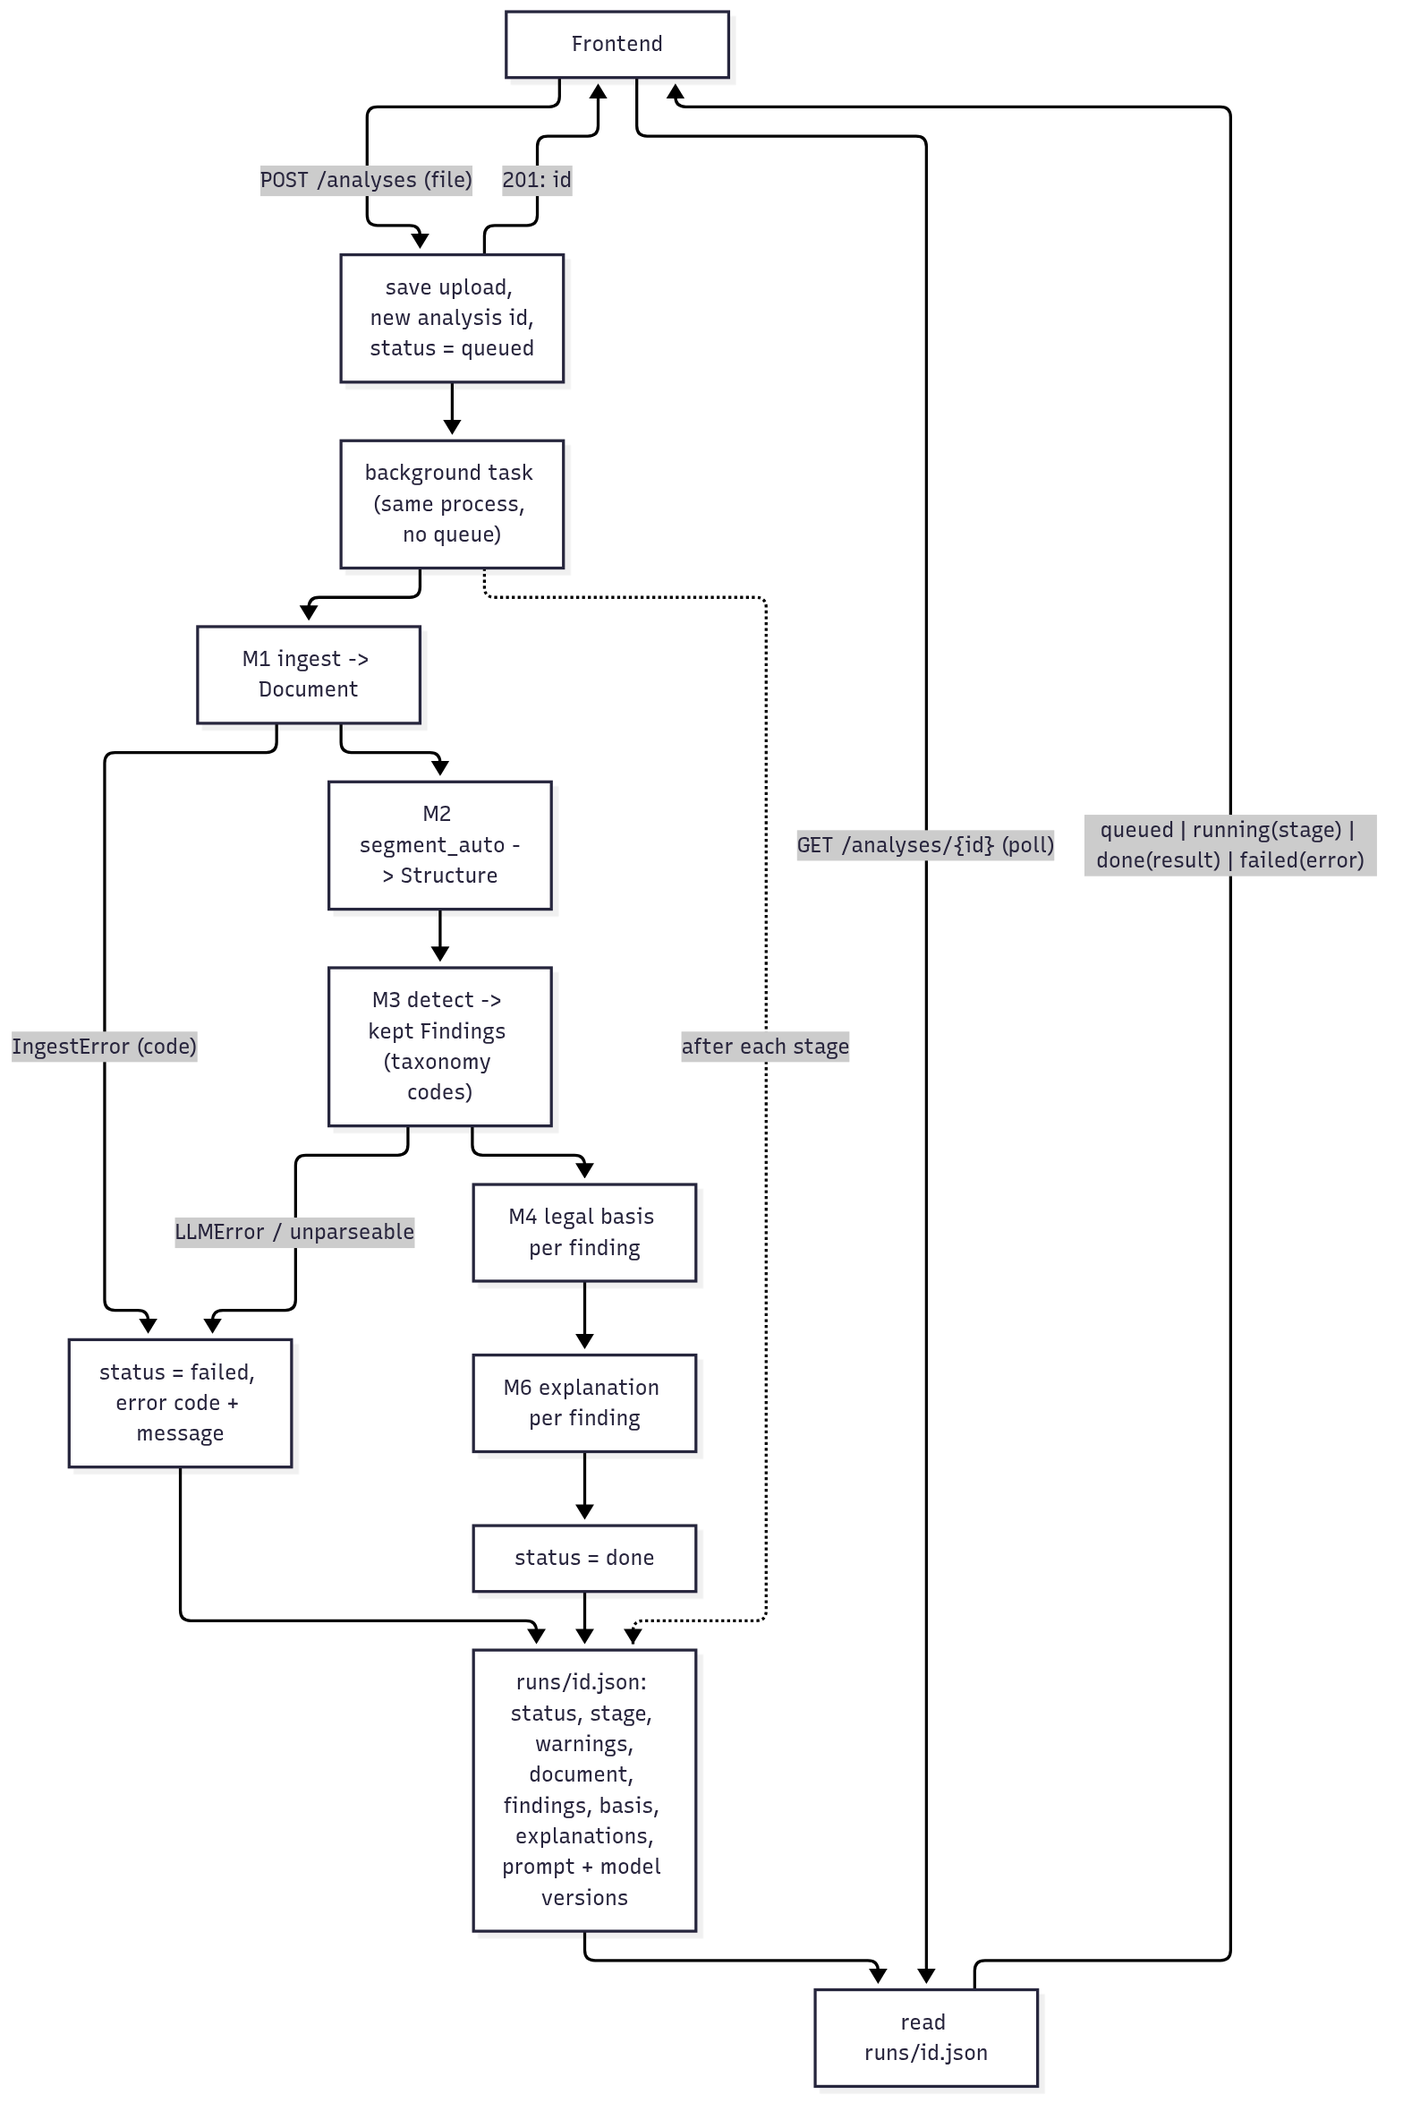
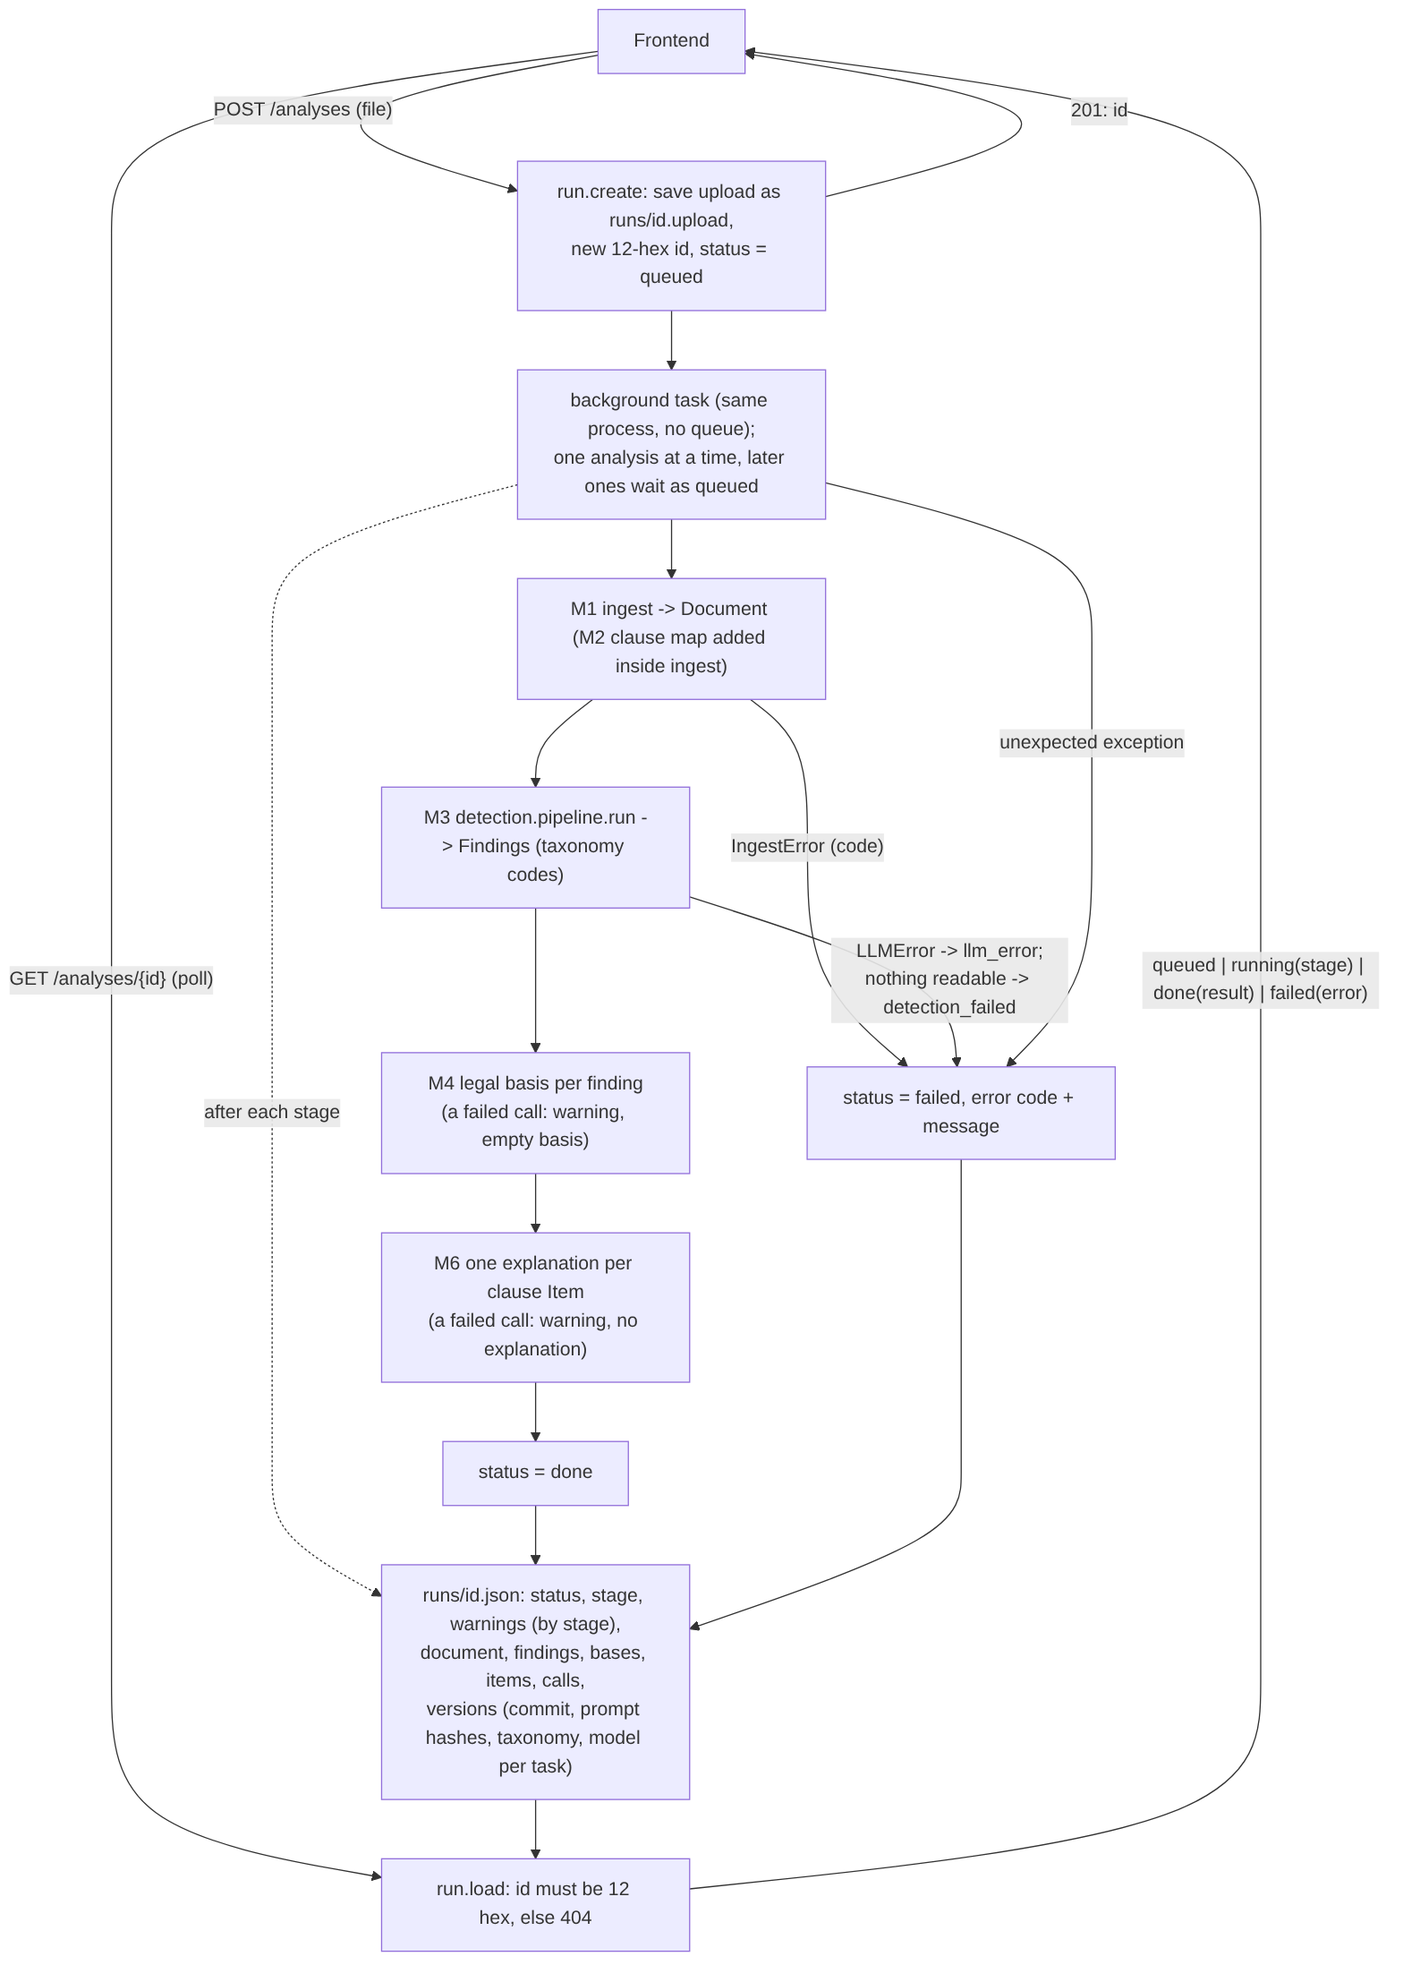
feat: analyses API and orchestration, M1 -> M6 in the background with a run record per stage
POST /analyses saves the upload and returns an id; the analysis runs in a
background task, one at a time, and rewrites runs/<id>.json after every
stage (status, stage, warnings, document, findings, bases, items, every model
call, and the commit, prompt hashes, taxonomy and model per task).
GET /analyses/{id} returns it. Ingest errors and unreadable detection fail
the run with a code; a failed legal_pick or explain call is a warning.
Adds python-multipart (uploads) and httpx (TestClient) to requirements.

diff --git a/backend/application/analysis/run.py b/backend/application/analysis/run.py
@@ -1,0 +1,175 @@
+"""One analysis of one contract: M1 ingest -> M3 detect -> M4 legal basis -> M6 explain, recorded in runs/<id>.json.
+
+    rid = create(data, filename)    # saves the upload, status "queued"
+    analyze(rid)                    # runs every stage (the API does this in the background)
+    load(rid)                       # the record
+
+The record is rewritten after every stage, so a poller sees progress and a failed run keeps what it had:
+  {"id", "created", "status": queued | running | done | failed, "stage", "error": {code, message} | null,
+   "warnings": [{stage, message}], "document", "findings", "bases", "items", "calls": {stage: [...]}, "versions"}
+A run fails when the file cannot be read (IngestError, with its code) or detection gets nothing readable from the
+model; a failed legal-basis or explanation call is a warning on that item. Runs go one at a time: the local model
+serves one request at a time and embedded Qdrant allows one user per process, so later ones wait as "queued".
+
+RUNS_DIR (env) moves the records; default backend/runs (git-ignored).
+"""
+from __future__ import annotations
+
+import dataclasses
+import datetime
+import hashlib
+import json
+import logging
+import os
+import re
+import subprocess
+import threading
+import time
+import traceback
+import uuid
+from pathlib import Path
+
+from application.adapters import llm
+from application.modules.detection import pipeline as detection, whole_doc
+from application.modules.explain import explain as m6
+from application.modules.ingestion.ingest import IngestError, ingest
+from application.modules.legal_basis import basis as m4
+from application.modules.taxonomy import taxonomy
+
+log = logging.getLogger(__name__)
+BACKEND = Path(__file__).resolve().parents[2]
+RUNS_DIR = Path(os.environ.get("RUNS_DIR") or BACKEND / "runs")
+TASKS = ("structure_fallback", "detect", "legal_pick", "explain")
+PROMPTS = {"detect": whole_doc.PROMPT, "detect_fix": whole_doc.FIX, "legal_pick": m4.PROMPT, "explain": m6.PROMPT}
+_ID = re.compile(r"[0-9a-f]{12}")
+_one_at_a_time = threading.Lock()
+
+
+class UnknownRun(KeyError):
+    pass
+
+
+def _path(rid: str) -> Path:
+    if not _ID.fullmatch(rid or ""):          # ids come from URLs: never let one name another file
+        raise UnknownRun(rid)
+    return RUNS_DIR / f"{rid}.json"
+
+
+def _save(rec: dict) -> None:
+    p = _path(rec["id"])
+    tmp = p.with_suffix(".tmp")
+    tmp.write_text(json.dumps(rec, ensure_ascii=False, indent=1, default=str), encoding="utf-8")
+    tmp.replace(p)                            # a poller never reads a half-written file
+
+
+def load(rid: str) -> dict:
+    p = _path(rid)
+    if not p.exists():
+        raise UnknownRun(rid)
+    return json.loads(p.read_text(encoding="utf-8"))
+
+
+def create(data: bytes, filename: str) -> str:
+    RUNS_DIR.mkdir(parents=True, exist_ok=True)
+    rid = uuid.uuid4().hex[:12]
+    (RUNS_DIR / f"{rid}.upload").write_bytes(data)
+    _save({"id": rid, "created": datetime.datetime.now().isoformat(timespec="seconds"), "filename": filename,
+           "status": "queued", "stage": None, "error": None, "warnings": [], "document": None, "findings": [],
+           "bases": [], "items": [], "calls": {}, "versions": versions()})
+    log.info("run %s: queued %s (%d bytes)", rid, filename, len(data))
+    return rid
+
+
+def versions() -> dict:
+    """What produced a result, to compare runs later: code, prompts, taxonomy, and the model behind each task."""
+    def git(*args):
+        try:
+            r = subprocess.run(["git", *args], cwd=BACKEND, capture_output=True, text=True, timeout=5)
+            return r.stdout.strip() if r.returncode == 0 else None
+        except OSError:
+            return None
+    models = {}
+    for t in TASKS:
+        try:
+            name, prof = llm.profile_for(t)
+            models[t] = {"profile": name, "model": prof.get("model"), "base_url": prof.get("base_url")}
+        except llm.LLMError as e:
+            models[t] = {"error": str(e)}
+    tax = taxonomy.DEFAULT_JSON
+    return {"commit": git("rev-parse", "--short", "HEAD"), "dirty": bool(git("status", "--porcelain", "--", ".")),
+            "prompts": {k: hashlib.sha256(v.encode()).hexdigest()[:12] for k, v in PROMPTS.items()},
+            "taxonomy": hashlib.sha256(tax.read_bytes()).hexdigest()[:12] if tax.exists() else None,
+            "models": models}
+
+
+def _document(doc) -> dict:
+    d = dataclasses.asdict(doc)
+    d.pop("raw", None)                        # per-page OCR provenance: large, and only for debugging ingest
+    d.pop("blocks", None)
+    return d
+
+
+def analyze(rid: str) -> dict:
+    """Run every stage of a queued run; never raises (a failure is recorded in the run)."""
+    rec = load(rid)
+    with _one_at_a_time:
+        t0 = time.monotonic()
+        rec["status"] = "running"
+
+        def stage(name):
+            rec["stage"] = name
+            _save(rec)
+            log.info("run %s: %s", rid, name)
+
+        def warn(stage_name, messages):
+            rec["warnings"] += [{"stage": stage_name, "message": m} for m in messages]
+
+        def fail(code, message):
+            rec.update(status="failed", error={"code": code, "message": message})
+            _save(rec)
+            log.warning("run %s failed at %s: %s %s", rid, rec["stage"], code, message)
+            return rec
+
+        try:
+            stage("ingest")
+            upload = RUNS_DIR / f"{rid}.upload"
+            try:
+                doc = ingest(upload.read_bytes(), rec["filename"])
+            except IngestError as e:
+                return fail(e.reason, e.message)
+            rec["document"] = _document(doc)
+            warn("ingest", doc.warnings)
+
+            stage("detect")
+            try:
+                det = detection.run(doc)
+            except llm.LLMError as e:
+                return fail("llm_error", str(e))
+            rec["calls"]["detect"] = det["attempts"]
+            warn("detect", det["warnings"])
+            if det["error"]:
+                return fail("detection_failed", det["error"])
+            rec["findings"] = [dataclasses.asdict(f) for f in det["findings"]]
+
+            stage("legal_basis")
+            bases = m4.attach(det["findings"])
+            rec["bases"] = [{**{k: v for k, v in b.items() if k != "attempt"},
+                             "basis": [dataclasses.asdict(x) for x in b["basis"]]} for b in bases["items"]]
+            rec["calls"]["legal_pick"] = [b["attempt"] for b in bases["items"] if b["attempt"]]
+            warn("legal_basis", bases["warnings"] + [w for b in bases["items"] for w in b["warnings"]])
+
+            stage("explain")
+            ex = m6.explain(doc, det["findings"], bases["items"])
+            rec["items"] = [{**dataclasses.asdict(it), "basis": [{**dataclasses.asdict(b), "label": b.label}
+                                                                 for b in it.basis]} for it in ex["items"]]
+            rec["calls"]["explain"] = ex["attempts"]
+            warn("explain", ex["warnings"] + [w for it in ex["items"] for w in it.warnings])
+
+            rec.update(status="done", stage=None, seconds=round(time.monotonic() - t0))
+            _save(rec)
+            log.info("run %s: done, %d items, %d warnings, %ds", rid, len(rec["items"]), len(rec["warnings"]),
+                     rec["seconds"])
+            return rec
+        except Exception as e:              # a bug must still end the run, or the poller waits forever
+            log.error("run %s: unexpected error\n%s", rid, traceback.format_exc())
+            return fail("internal", f"{type(e).__name__}: {e}")

diff --git a/backend/tests/test_analysis.py b/backend/tests/test_analysis.py
@@ -1,0 +1,101 @@
+import json
+import os
+import tempfile
+import unittest
+from pathlib import Path
+from unittest import mock
+
+from fastapi.testclient import TestClient
+
+from application.adapters.llm import LLMError, LLMResult
+from application.analysis import run
+from application.main import app
+
+CONTRACT = ("HỢP ĐỒNG THUÊ PHÒNG\nĐiều 1. Tiền cọc\nBên B đặt cọc 2 tháng tiền thuê. Bên A không hoàn trả tiền cọc "
+            "trong mọi trường hợp.\nĐiều 2. Lãi chậm trả\nBên B chậm trả thì chịu lãi 2% mỗi ngày trên số tiền chậm trả.\n"
+            "Điều 3. Điều khoản chung\nHai bên cam kết thực hiện đúng các điều khoản trên; hợp đồng lập thành 02 bản "
+            "có giá trị như nhau, mỗi bên giữ 01 bản.\n").encode()
+
+
+def reply(obj):
+    return LLMResult(json.dumps(obj, ensure_ascii=False), "stop", {}, "p", "m")
+
+
+def fake_chat(task, messages, **kw):
+    """detect answers for the DEP group only; legal_pick picks C1; explain writes a valid explanation."""
+    prompt = messages[0]["content"]
+    if task == "detect":
+        if "[B-DEP-04]" in prompt:
+            return reply({"findings": [{"code": "B-DEP-04", "kind": "present", "issue": "mất cọc",
+                                        "quote": "Bên A không hoàn trả tiền cọc trong mọi trường hợp."}]})
+        return reply({"findings": []})
+    if task == "legal_pick":
+        return reply({"basis": [{"id": "C1", "why": "đặt cọc"}]})
+    return reply({"summary": "Bạn có thể mất cọc [L1].", "recommendation": "Đề nghị ghi rõ thời hạn hoàn cọc."})
+
+
+class FakeRetriever:
+    def search(self, query, k=5, law=None):
+        return []
+
+
+class Analysis(unittest.TestCase):
+    def setUp(self):
+        d = tempfile.TemporaryDirectory()
+        self.addCleanup(d.cleanup)
+        for target, value in [(run, Path(d.name)), ]:
+            p = mock.patch.object(target, "RUNS_DIR", value)
+            p.start()
+            self.addCleanup(p.stop)
+        for p in (mock.patch.dict(os.environ, {"STRUCTURE_LLM": "off"}),
+                  mock.patch("application.modules.legal_basis.basis.default_retriever",
+                             return_value=(FakeRetriever(), [])),
+                  mock.patch("application.adapters.llm.chat", side_effect=fake_chat)):
+            p.start()
+            self.addCleanup(p.stop)
+        self.client = TestClient(app)
+
+    def test_post_then_poll_gives_the_whole_result(self):
+        r = self.client.post("/analyses", files={"file": ("hd.txt", CONTRACT, "text/plain")})
+        self.assertEqual(r.status_code, 201)
+        rid = r.json()["id"]
+        rec = self.client.get(f"/analyses/{rid}").json()      # TestClient runs the background task before returning
+        self.assertEqual((rec["status"], rec["error"]), ("done", None), rec.get("error"))
+        self.assertEqual([f["code"] for f in rec["findings"]], ["B-DEP-04"])
+        item = rec["items"][0]
+        self.assertEqual((item["codes"], item["clause"]), (["B-DEP-04"], "Điều 1"))
+        self.assertIn("Bạn có thể mất cọc", item["explanation"]["summary"])
+        self.assertEqual(len(rec["calls"]["detect"]), 7)       # one per taxonomy group
+        self.assertIn("detect", rec["versions"]["models"])
+        self.assertIn("text", rec["document"])
+
+    def test_unreadable_file_fails_with_the_ingest_code(self):
+        rid = self.client.post("/analyses", files={"file": ("x.txt", b"ngan qua", "text/plain")}).json()["id"]
+        rec = self.client.get(f"/analyses/{rid}").json()
+        self.assertEqual((rec["status"], rec["stage"], rec["error"]["code"]), ("failed", "ingest", "no_text"))
+
+    def test_model_down_fails_detection_but_a_later_stage_only_warns(self):
+        with mock.patch("application.adapters.llm.chat", side_effect=LLMError("p: HTTP 503")):
+            rid = self.client.post("/analyses", files={"file": ("hd.txt", CONTRACT, "text/plain")}).json()["id"]
+        rec = self.client.get(f"/analyses/{rid}").json()
+        self.assertEqual((rec["status"], rec["error"]["code"]), ("failed", "llm_error"))
+
+        def explain_down(task, messages, **kw):
+            if task == "explain":
+                raise LLMError("p: HTTP 503")
+            return fake_chat(task, messages, **kw)
+        with mock.patch("application.adapters.llm.chat", side_effect=explain_down):
+            rid = self.client.post("/analyses", files={"file": ("hd.txt", CONTRACT, "text/plain")}).json()["id"]
+        rec = self.client.get(f"/analyses/{rid}").json()
+        self.assertEqual(rec["status"], "done")
+        self.assertIsNone(rec["items"][0]["explanation"])
+        self.assertTrue(any("HTTP 503" in w["message"] for w in rec["warnings"] if w["stage"] == "explain"))
+
+    def test_unknown_or_malicious_ids_are_404(self):
+        for rid in ("0123456789ab", "..%2F..%2Fllm", "x" * 12):
+            self.assertEqual(self.client.get(f"/analyses/{rid}").status_code, 404, rid)
+        self.assertEqual(self.client.post("/analyses", files={"file": ("e.txt", b"", "text/plain")}).status_code, 400)
+
+
+if __name__ == "__main__":
+    unittest.main()

diff --git a/backend/application/api/analyses.py b/backend/application/api/analyses.py
@@ -1,0 +1,29 @@
+"""POST /analyses (a contract file) -> 201 {"id", "status"}; GET /analyses/{id} -> the run record (poll it).
+
+The analysis runs in the background in this process (application.analysis.run); see orch_api.mmd.
+"""
+from __future__ import annotations
+
+from fastapi import APIRouter, BackgroundTasks, HTTPException, UploadFile
+
+from application.analysis import run
+
+router = APIRouter(prefix="/analyses", tags=["analyses"])
+
+
+@router.post("", status_code=201)
+async def create_analysis(file: UploadFile, background: BackgroundTasks) -> dict:
+    data = await file.read()
+    if not data:
+        raise HTTPException(400, "empty file")
+    rid = run.create(data, file.filename or "upload")
+    background.add_task(run.analyze, rid)
+    return {"id": rid, "status": "queued"}
+
+
+@router.get("/{rid}")
+def get_analysis(rid: str) -> dict:
+    try:
+        return run.load(rid)
+    except run.UnknownRun:
+        raise HTTPException(404, "no such analysis") from None

diff --git a/backend/application/modules/legal_basis/basis.py b/backend/application/modules/legal_basis/basis.py
@@ -211,7 +211,10 @@ def attach(findings: list[Finding], *, retriever: Retriever | None = None, tax: 
         for f in findings:
             risk = tax.by_code[f.code]
             cands, warnings = candidates(f, risk, retriever, con)
-            res = pick(f, risk, cands)
+            try:
+                res = pick(f, risk, cands)
+            except llm.LLMError as e:     # one failed call costs this finding its basis, not the run
+                res = {"basis": [], "warnings": [f"{f.code}: legal_pick failed ({e})"], "attempt": None}
             log.debug("%s: %d candidates -> %s", f.code, len(cands),
                       ", ".join(f"{b.law} Đ{b.dieu} {b.ref}".strip() for b in res["basis"]) or "none")
             for w in warnings + res["warnings"]:

diff --git a/backend/application/main.py b/backend/application/main.py
@@ -1,8 +1,9 @@
 
 from fastapi import FastAPI
+from fastapi.middleware.cors import CORSMiddleware
 
 from application import logs
-from fastapi.middleware.cors import CORSMiddleware
+from application.api import analyses
 
 logs.setup()
 
@@ -19,6 +20,8 @@ app.add_middleware(
     allow_methods=["*"],
     allow_headers=["*"],
 )
+
+app.include_router(analyses.router)
 
 
 @app.get("/health")

diff --git a/docs/diagrams/README.md b/docs/diagrams/README.md
@@ -61,8 +61,9 @@ Diagrams marked *(planned)* describe code that does not match yet.
   clause; plain-Vietnamese explanation and recommendation per Item, citing law
   only as [Lk] from its LegalBasis list (checked, then resolved to names).
   (`explain/explain.py`)
-- `orch_api` *(planned)* - POST /analyses, background run M1 -> M6, status
-  and result in runs/<id>.json, GET /analyses/{id} polling.
+- `orch_api` - POST /analyses, background run M1 -> M6 one at a time, status
+  and result in runs/<id>.json rewritten per stage, GET /analyses/{id} polling.
+  (`analysis/run.py`, `api/analyses.py`)
 - `llm_chat` *(planned)* - the one chat-completions client: OpenAI-compatible
   API configured in llm.toml, task -> profile, sampling merge, LLMError
   paths; no local-only guard. (`adapters/llm.py`)
